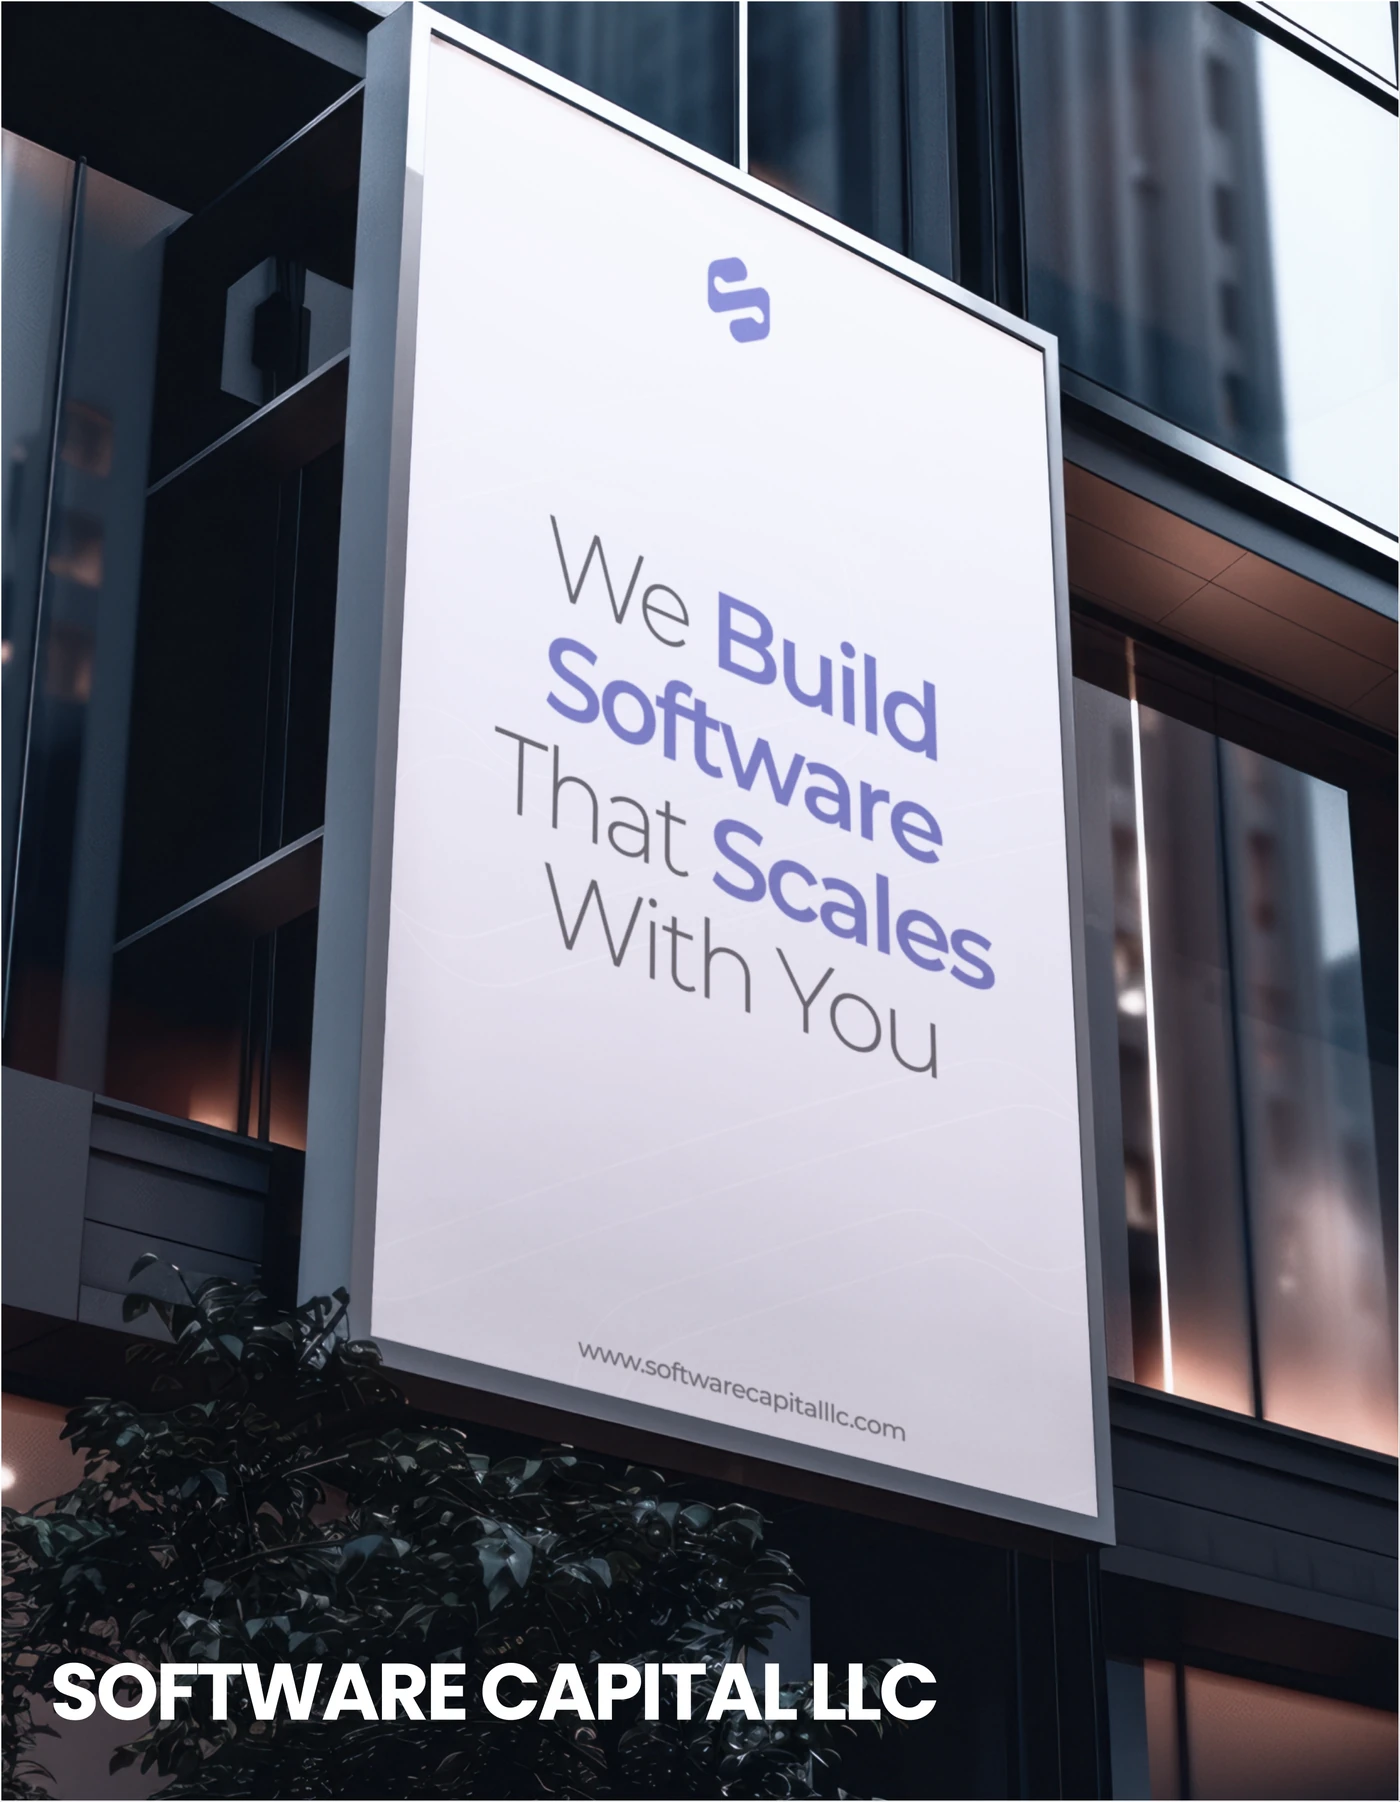
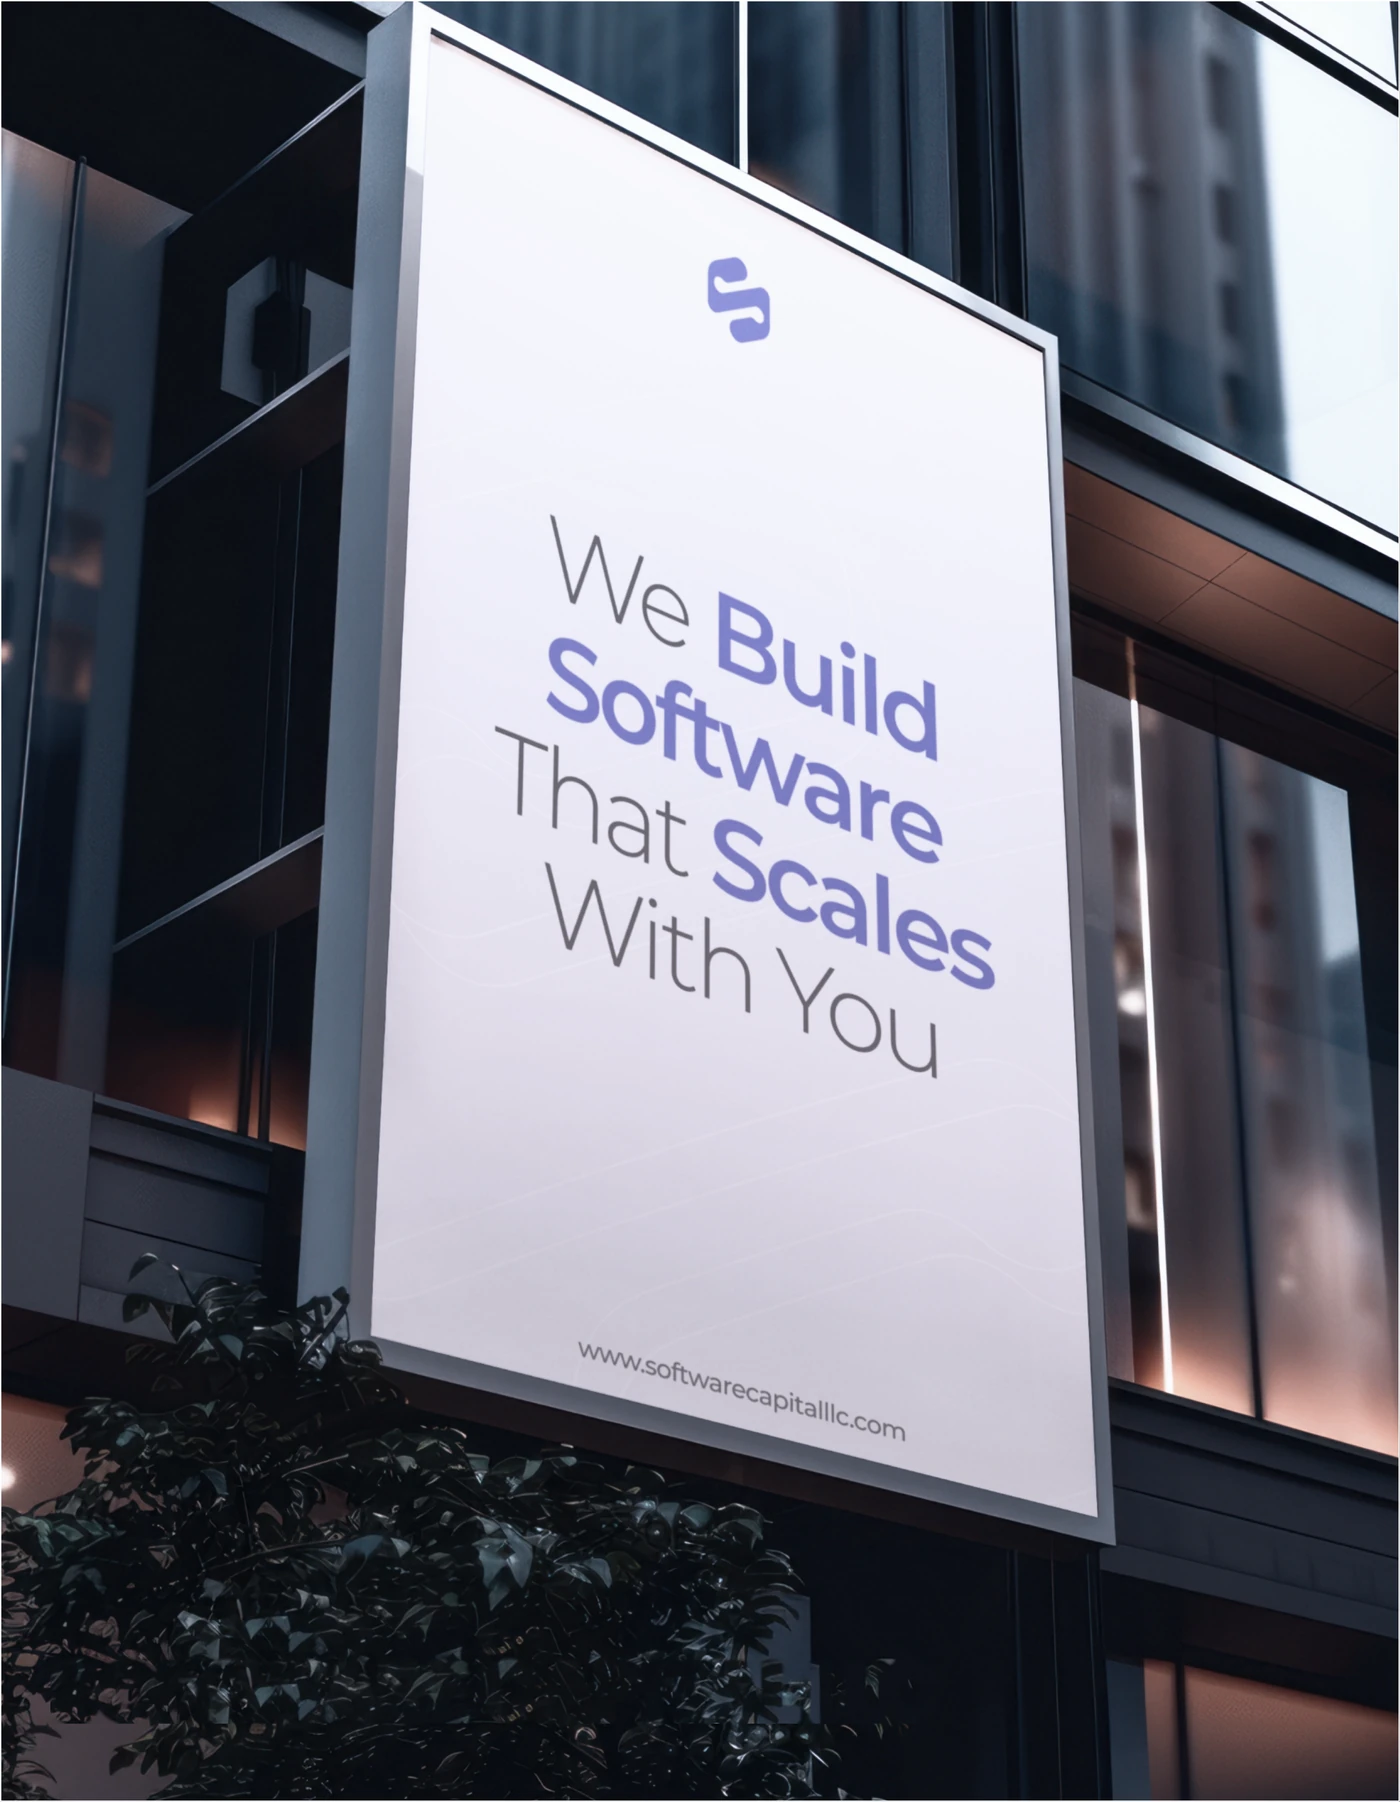
updated code

Changed region(s): [[0.0307, 0.9012, 0.6757, 0.9634]]

diff --git a/max-design/data/portfolio.ts b/max-design/data/portfolio.ts
@@ -18,6 +18,9 @@ export const DEFAULT_HEADING = "Built to Be Remembered.";
 
 export type FigmaCrop = { width: number; height: number; left: number; top: number };
 
+/** AI Ad Creatives ke bento layout ke card size: small 560x709.86, half 852x1080, wide 1728x1080 */
+export type CardVariant = "small" | "half" | "wide";
+
 export type PortfolioItem = {
   id: string;
   title: string;
@@ -26,6 +29,8 @@ export type PortfolioItem = {
   labelInImage?: boolean;
   /** Optional: Figma ki image width/height/left/top (card 560 x 721 ke hisab se) */
   crop?: FigmaCrop;
+  /** Sirf bento layout me: card ka size (grid me kitni jagah ghere) */
+  variant?: CardVariant;
 };
 
 export type PortfolioCategory = {
@@ -35,6 +40,8 @@ export type PortfolioCategory = {
   heading?: string;
   /** Figma: heading ki max width (default 850). Lambi heading ke liye badhao */
   headingW?: number;
+  /** "bento" = 6 column grid jisme small/half/wide cards mix hote hain */
+  layout?: "bento";
   /** Figma: card ki height (default 721) */
   cardH?: number;
   /** Figma: label ka top (default 660) */
@@ -62,7 +69,6 @@ export const portfolioCategories: PortfolioCategory[] = [
         id: "oh-belly",
         title: "Oh Belly",
         image: "/portfolio/branding/oh-belly.webp",
-        labelInImage: true,
       },
       {
         id: "brainforce-digital",
@@ -88,7 +94,6 @@ export const portfolioCategories: PortfolioCategory[] = [
         id: "software-capital-llc",
         title: "Software Capital LLC",
         image: "/portfolio/branding/software-capital-llc.webp",
-        labelInImage: true,
       },
       {
         id: "carmentis",
@@ -280,7 +285,57 @@ export const portfolioCategories: PortfolioCategory[] = [
       },
     ],
   },
-  { id: "ai-ad-creatives", label: "AI Ad Creatives", items: [] },
+  {
+    id: "ai-ad-creatives",
+    label: "AI Ad Creatives",
+    heading: "Creative Ads, Powered by AI",
+    headingW: 1100,
+    layout: "bento",
+    items: [
+      {
+        id: "roche-melgar",
+        title: "Roche Melgar",
+        image: "/portfolio/ai-ad-creatives/roche-melgar.webp",
+        variant: "small",
+      },
+      {
+        id: "rolex",
+        title: "Rolex",
+        image: "/portfolio/ai-ad-creatives/rolex.webp",
+        variant: "small",
+      },
+      {
+        id: "jazzba",
+        title: "Jazzba",
+        image: "/portfolio/ai-ad-creatives/jazzba.webp",
+        variant: "small",
+      },
+      {
+        id: "pixelette-technologies",
+        title: "Pixelette Technologies",
+        image: "/portfolio/ai-ad-creatives/pixelette-technologies.webp",
+        variant: "wide",
+      },
+      {
+        id: "rosor-exploration",
+        title: "Rosor Eploration",
+        image: "/portfolio/ai-ad-creatives/rosor-exploration.webp",
+        variant: "half",
+      },
+      {
+        id: "oh-belly",
+        title: "Oh Belly",
+        image: "/portfolio/ai-ad-creatives/oh-belly.webp",
+        variant: "half",
+      },
+      {
+        id: "jams-wheels-on-deals",
+        title: "Jams Wheeels on Deals",
+        image: "/portfolio/ai-ad-creatives/jams-wheels-on-deals.webp",
+        variant: "wide",
+      },
+    ],
+  },
   { id: "video", label: "Video Editing", items: [] },
   { id: "website", label: "Web Development", items: [] },
 ];
